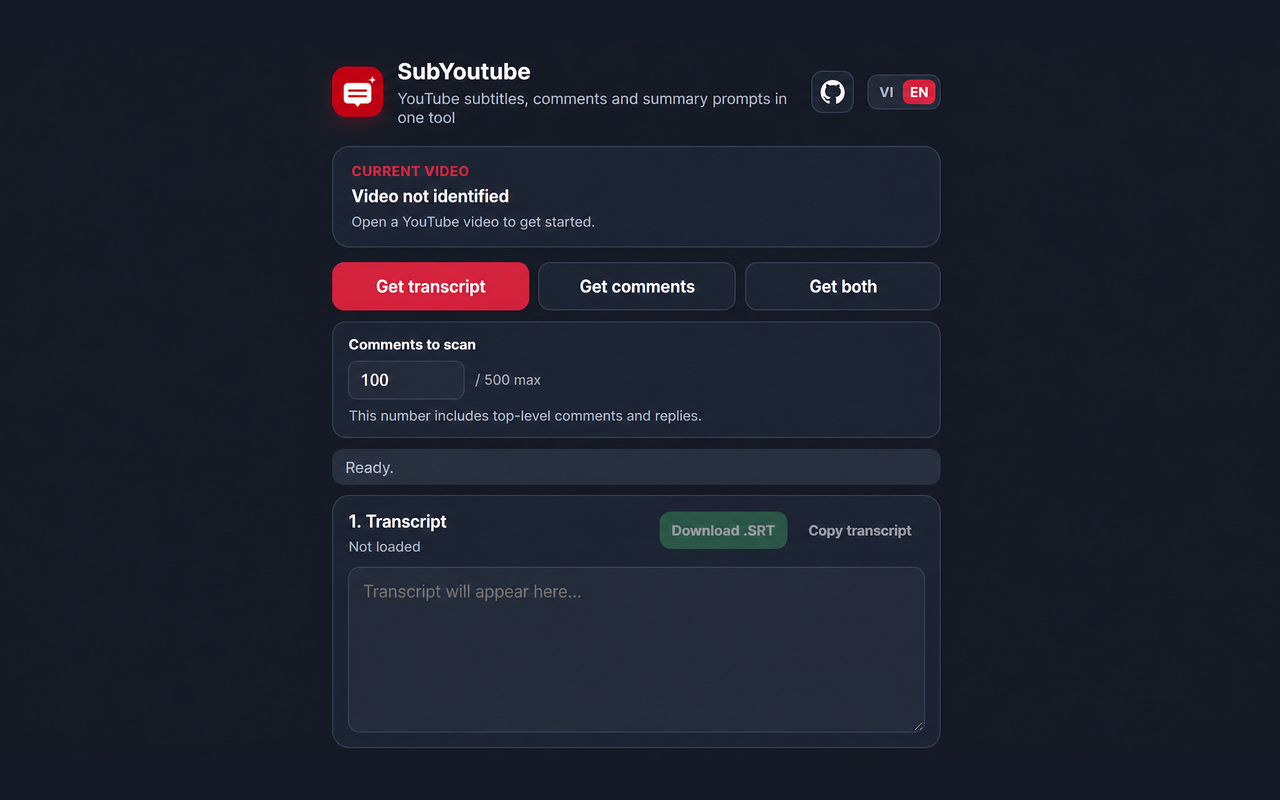
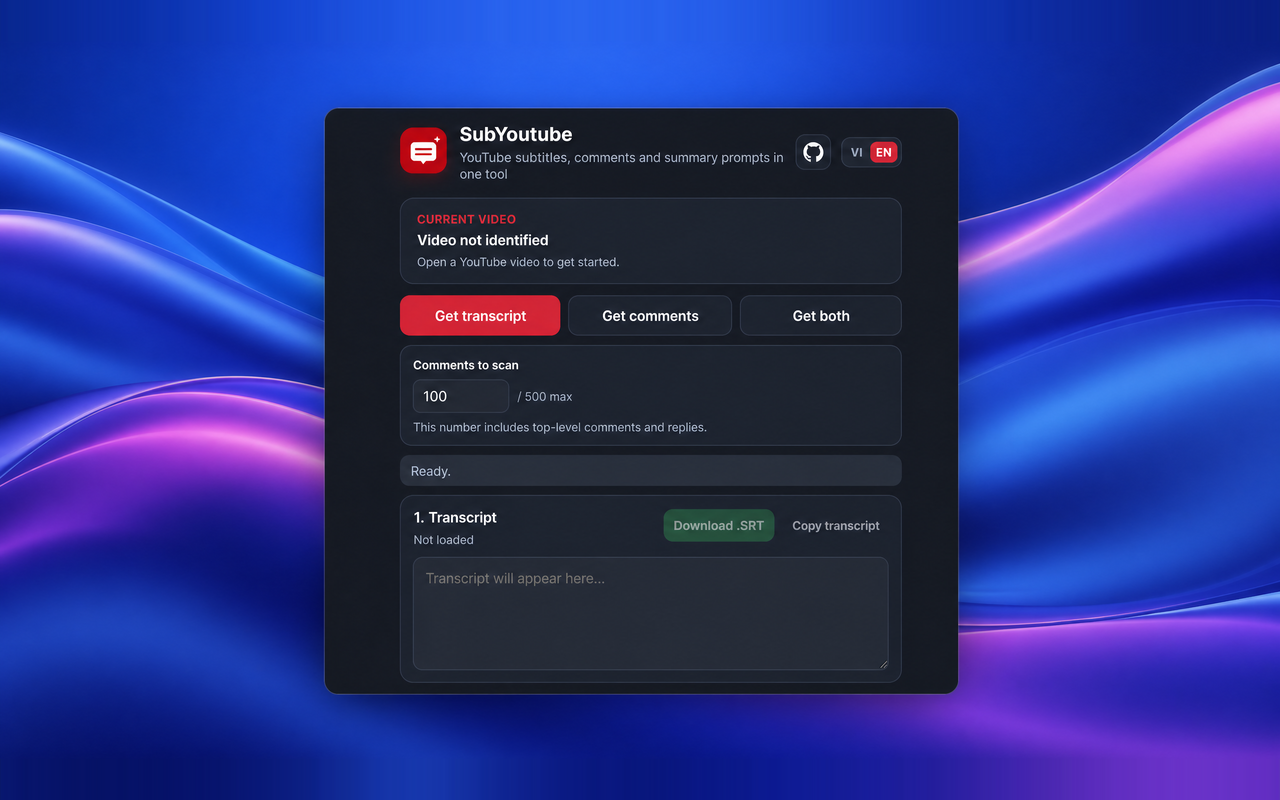
Update README promotional assets

diff --git a/README.md b/README.md
@@ -29,6 +29,10 @@
 
 _SubYoutube interface in English with transcript, comments, and prompt actions._
 
+![SubYoutube Large promotional tile](assets/subyoutube-large-promotional-tile.png)
+
+_SubYoutube promotional banner for the Microsoft Edge Add-ons listing._
+
 **SubYoutube** is a Manifest V3 extension for Microsoft Edge that extracts the transcript/subtitles and comments from the YouTube video currently open in your browser. It presents the data in a focused popup so you can copy it, research it, or create structured prompts for AI tools.
 
 SubYoutube is not an official product of YouTube, Google, or any AI provider. It only helps users read and organize data from a YouTube page that they intentionally open and scan.
